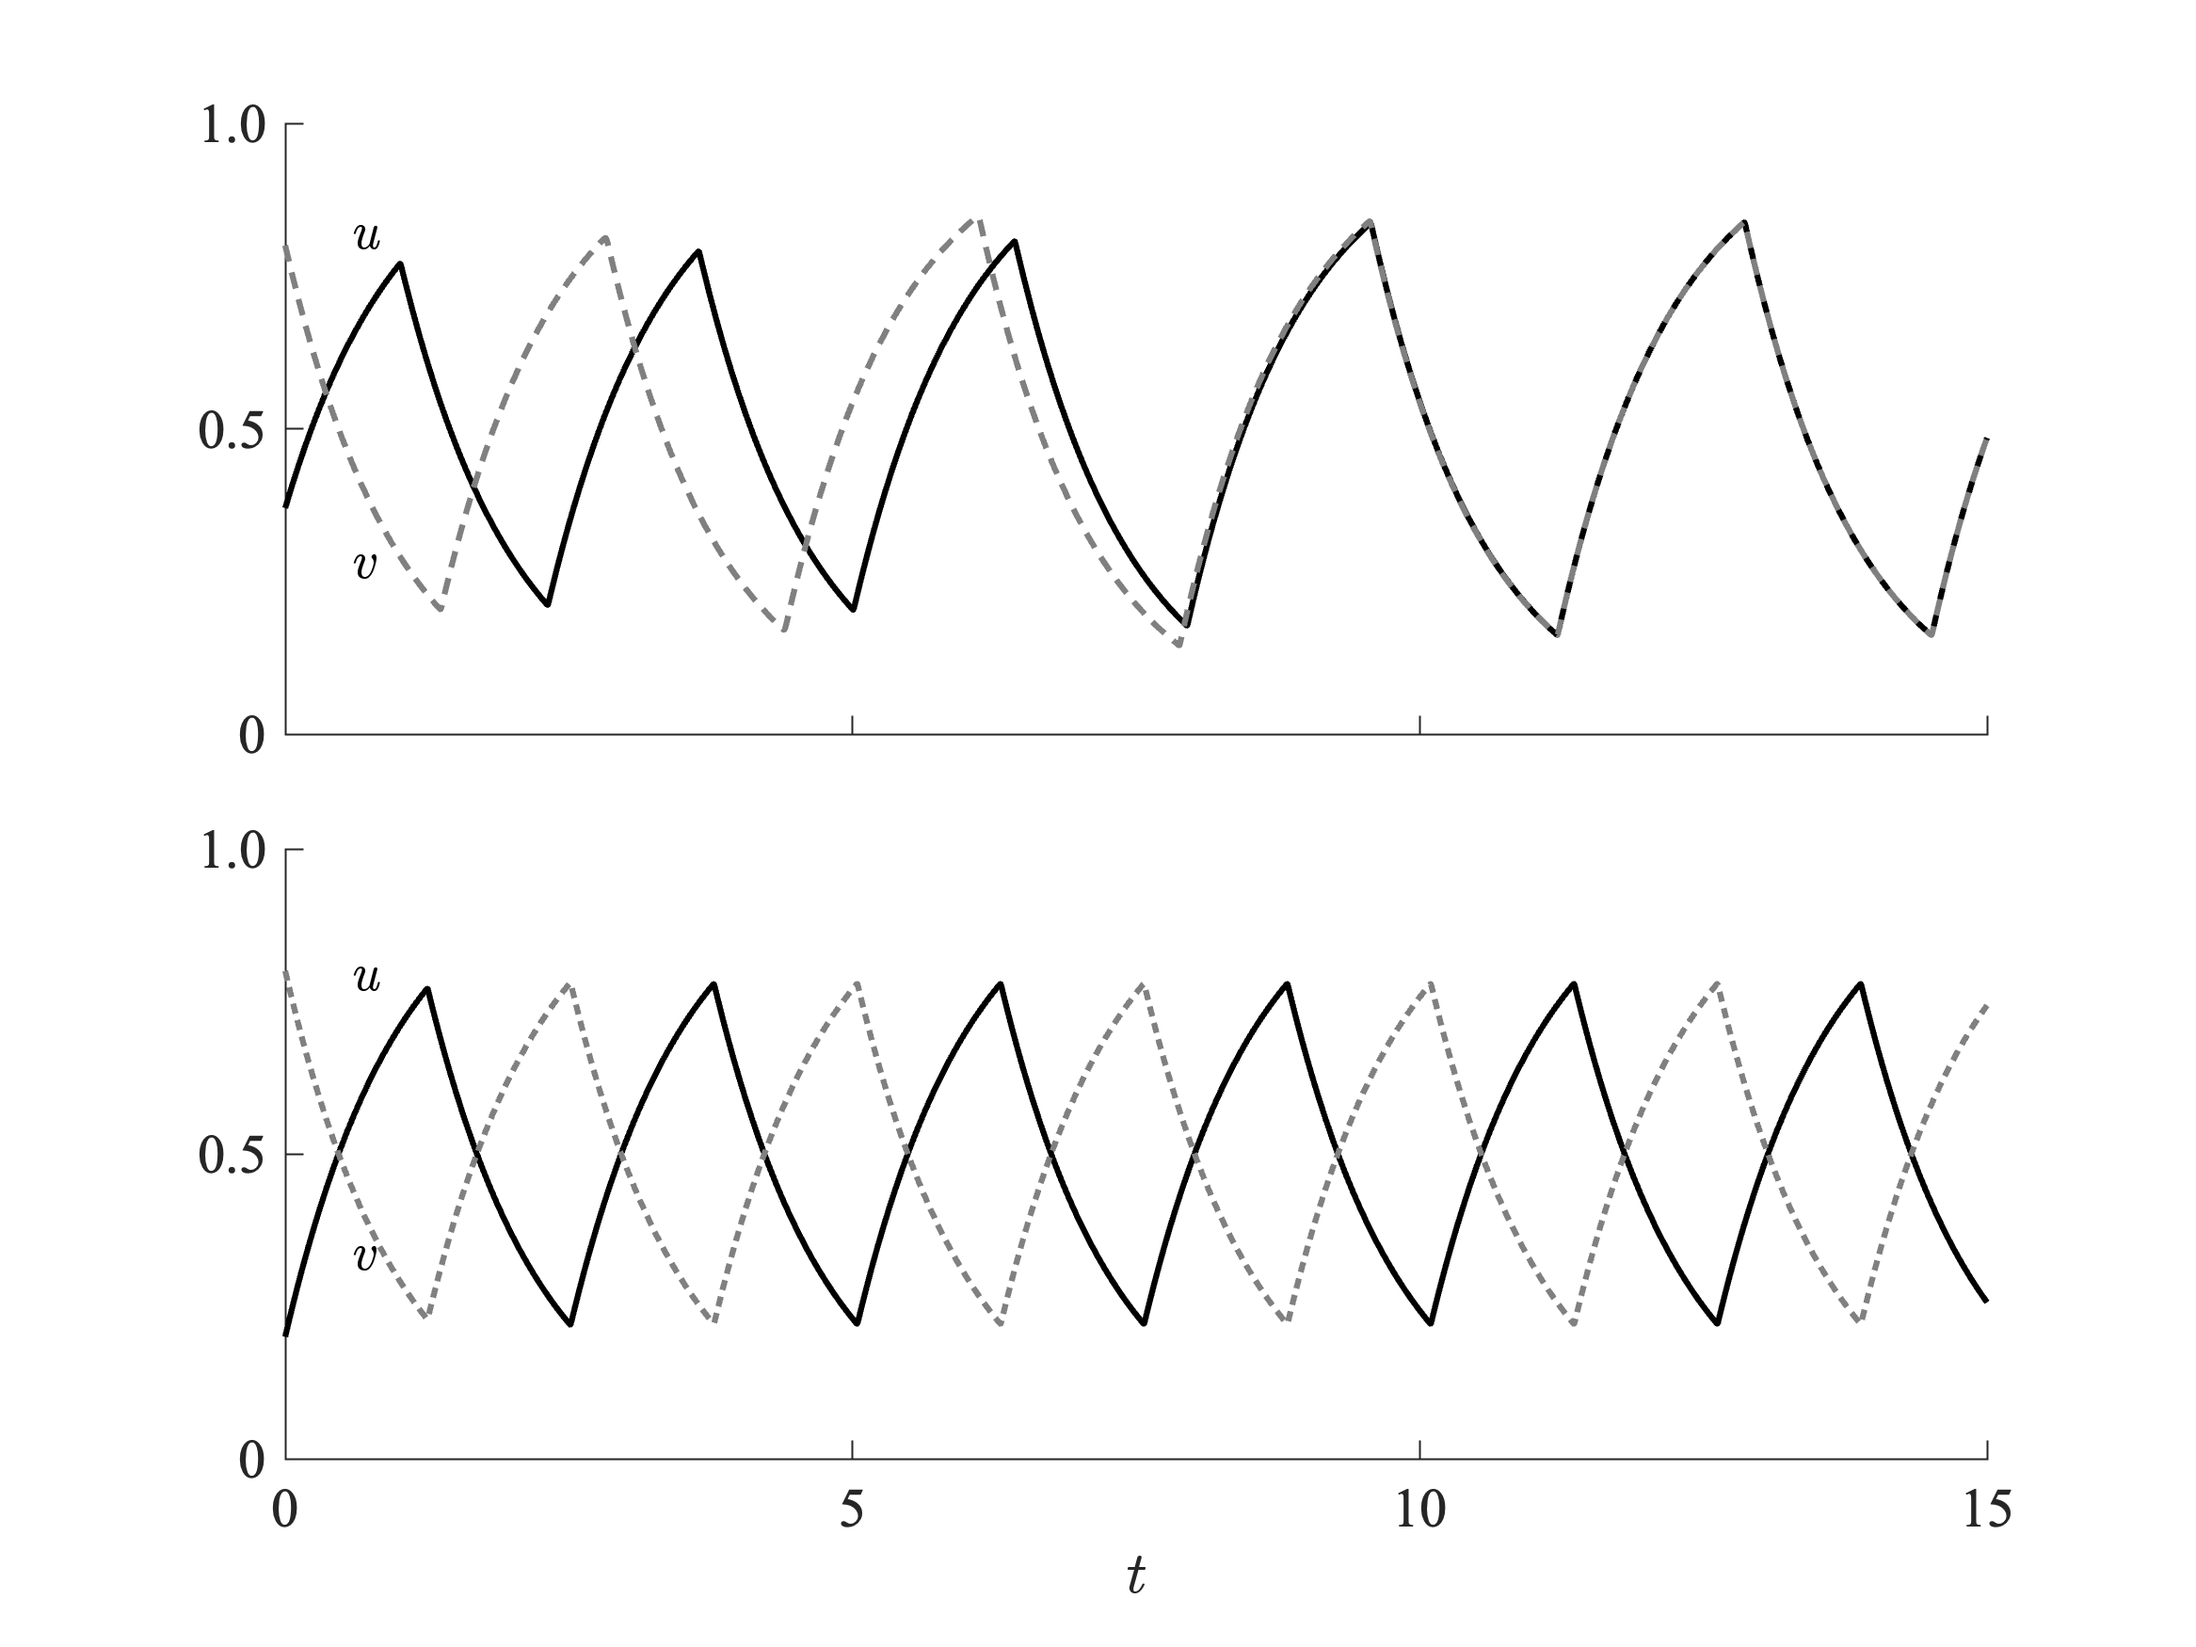
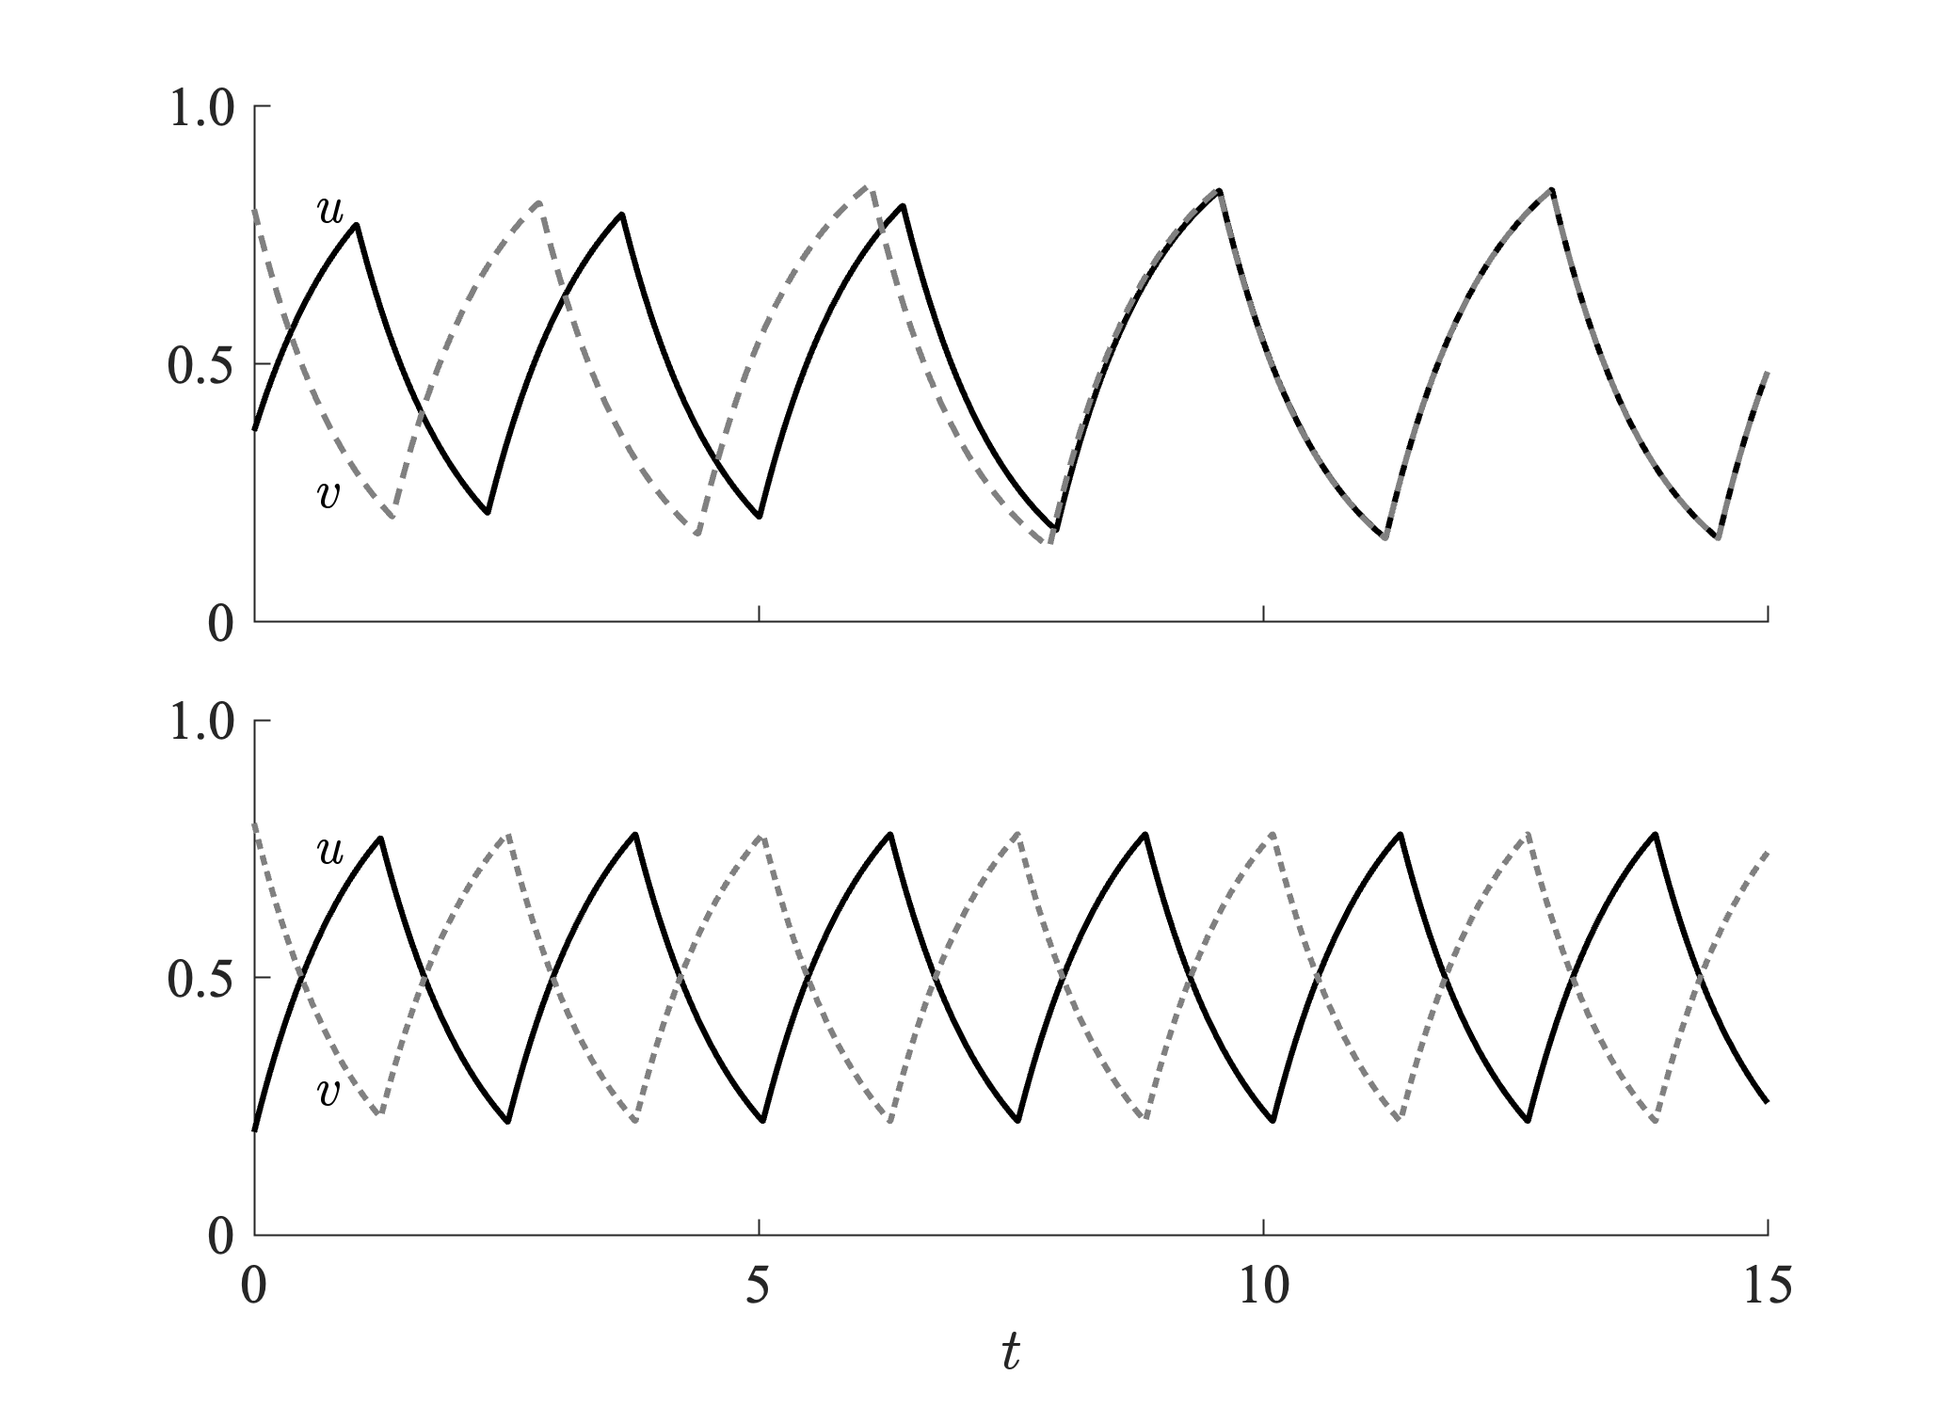
Finalise dde_sim

diff --git a/Code/delay_wilson_cowan.m b/Code/delay_wilson_cowan.m
@@ -218,6 +218,110 @@ annotation('textbox',[0.15 0.21 0.0446 0.0536],'String','$\mathit{v}$',...
 % Save figure
 print(gcf, '../Figures/Figure_3.png', '-dpng', '-r300');
 
+%% Figure 4 - DDE Simulations
+% Select Parameters
+p.alpha = 1; p.beta = 1;
+p.a = 10; p.b = -10;
+p.c = 10; p.d = 2;
+p.theta_u = -2; p.theta_v = -4;
+
+% Define DDE parameters
+p.tspan = [0 50];
+p.history = [0.6 0.7];
+p.options = ddeset('RelTol', 1e-5);
+
+p.tau1 = 0.5; p.tau2 = 1;
+p.delays = [p.tau1 p.tau2];
+[sol1, null] = ddeSim(p);
+
+p.tau1 = 3; p.tau2 = 1;
+p.delays = [p.tau1 p.tau2];
+sol2 = ddeSim(p);
+
+p.tau1 = 6; p.tau2 = 1;
+p.delays = [p.tau1 p.tau2];
+sol3 = ddeSim(p);
+
+p.tau1 = 10; p.tau2 = 1;
+p.delays = [p.tau1 p.tau2];
+sol4 = ddeSim(p);
+
+% Initialise figure 4
+figure(4); clf;
+tiledlayout(2,2,'TileSpacing','Compact','Padding','loose');
+
+% First subplot
+nexttile; hold on;
+
+% Plot nullclines
+plot(null.nullclines.u, null.v_range, '-', 'color', '#c74440', 'linewidth', 1.5)
+plot(null.u_range, null.nullclines.v, '-', 'color', '#2c70b3', 'linewidth', 1.5)
+
+% Plot solution
+plot(sol1.y(1,1), sol1.y(2,1), '.', 'color', '#378c47', 'markersize', 12)
+plot(sol1.y(1,:), sol1.y(2,:), 'color', '#378c47', 'linewidth', 1)
+
+% Format subplot
+ylabel("$\mathit{v}$", 'Interpreter', 'latex','rotation',0)
+set(gca,'FontSize', 14, 'FontName', 'Times')
+xlim([0 1]); ylim([0 1]);
+xticks(0:0.2:1); xticklabels({'0','0.2','0.4','0.6','0.8','1.0'});
+yticks(0:0.2:1); yticklabels({'0','0.2','0.4','0.6','0.8','1.0'});
+
+% Second subplot
+nexttile; hold on;
+
+% Plot nullclines
+plot(null.nullclines.u, null.v_range, '-', 'color', '#c74440', 'linewidth', 1.5)
+plot(null.u_range, null.nullclines.v, '-', 'color', '#2c70b3', 'linewidth', 1.5)
+
+% Plot solution
+plot(sol2.y(1,1), sol2.y(2,1), '.', 'color', '#378c47', 'markersize', 12)
+plot(sol2.y(1,:), sol2.y(2,:), 'color', '#378c47', 'linewidth', 1)
+
+% Format subplot
+set(gca,'FontSize', 14, 'FontName', 'Times')
+xlim([0 1]); ylim([0 1]);
+xticks(0:0.2:1); xticklabels({'0','0.2','0.4','0.6','0.8','1.0'});
+yticks(0:0.2:1); yticklabels({'0','0.2','0.4','0.6','0.8','1.0'});
+
+% Third subplot
+nexttile; hold on;
+
+% Plot nullclines
+plot(null.nullclines.u, null.v_range, '-', 'color', '#c74440', 'linewidth', 1.5)
+plot(null.u_range, null.nullclines.v, '-', 'color', '#2c70b3', 'linewidth', 1.5)
+
+% Plot solution
+plot(sol3.y(1,1), sol3.y(2,1), '.', 'color', '#378c47', 'markersize', 12)
+plot(sol3.y(1,:), sol3.y(2,:), 'color', '#378c47', 'linewidth', 1)
+
+% Format subplot
+xlabel("$\mathit{u}$", 'Interpreter', 'latex')
+ylabel("$\mathit{v}$", 'Interpreter', 'latex','rotation',0)
+set(gca,'FontSize', 14, 'FontName', 'Times')
+xlim([0 1]); ylim([0 1]);
+xticks(0:0.2:1); xticklabels({'0','0.2','0.4','0.6','0.8','1.0'});
+yticks(0:0.2:1); yticklabels({'0','0.2','0.4','0.6','0.8','1.0'});
+
+% Fourth subplot
+nexttile; hold on;
+
+% Plot nullclines
+plot(null.nullclines.u, null.v_range, '-', 'color', '#c74440', 'linewidth', 1.5)
+plot(null.u_range, null.nullclines.v, '-', 'color', '#2c70b3', 'linewidth', 1.5)
+
+% Plot solution
+plot(sol4.y(1,1), sol4.y(2,1), '.', 'color', '#378c47', 'markersize', 12)
+plot(sol4.y(1,:), sol4.y(2,:), 'color', '#378c47', 'linewidth', 1)
+
+% Format subplot
+xlabel("$\mathit{u}$", 'Interpreter', 'latex')
+set(gca,'FontSize', 14, 'FontName', 'Times')
+xlim([0 1]); ylim([0 1]);
+xticks(0:0.2:1); xticklabels({'0','0.2','0.4','0.6','0.8','1.0'});
+yticks(0:0.2:1); yticklabels({'0','0.2','0.4','0.6','0.8','1.0'});
+
 %% Figure 6 Replicate
 % Define model parameters
 p.alpha = 1; p.beta = 60;

diff --git a/Code/helper_functions/ddeSim.m b/Code/helper_functions/ddeSim.m
@@ -1,55 +1,14 @@
 %% DDE Simulation
-% Select Parameters
-p.alpha = 1; p.beta = 1;
-p.a = 10; p.b = -10;
-p.c = 10; p.d = 2;
-p.tau1 = 0.5; p.tau2 = 1;
-% p.tau1 = 3; p.tau2 = 1;
-% p.tau1 = 6; p.tau2 = 1;
-p.theta_u = -2; p.theta_v = -4;
-
-% Define DDE parameters
-p.tspan = [0 50];
-p.delays = [p.tau1 p.tau2];
-p.history = [0.6 0.7];
-p.options = ddeset('RelTol', 1e-5);
-
-% Calculate nullclines
-u_range = linspace(0, 1, 1000);
-v_range = linspace(0, 1, 1000);
-nullclines = getNullclines(u_range, v_range, p);
-
-% Solve DDE
-sol = dde23(@(t, y, Z) ddefun(t, y, Z, p), ...
-    p.delays,p.history,p.tspan,p.options);
-
-% Initialise figure 1
-figure(1);
-clf; hold on
-
-% Plot nullclines
-plot(nullclines.u, v_range, '-', 'color', '#c74440', 'linewidth', 1.5)
-plot(u_range, nullclines.v, '-', 'color', '#2c70b3', 'linewidth', 1.5)
-
-% Plot solution
-plot(sol.y(1,1), sol.y(2,1), '.', 'color', '#378c47', 'markersize', 12)
-for i = 1:length(sol.y)-1
-    plot(sol.y(1,i:i+1), sol.y(2,i:i+1), ...
-        'color', '#378c47', 'linewidth', 1); % u against v
-    % drawnow;
+function [sol, null] = ddeSim(p)    
+    % Calculate nullclines
+    null.u_range = linspace(0, 1, 1000);
+    null.v_range = linspace(0, 1, 1000);
+    null.nullclines = getNullclines(null.u_range, null.v_range, p);
+    
+    % Solve DDE
+    sol = dde23(@(t, y, Z) ddefun(t, y, Z, p), ...
+        p.delays,p.history,p.tspan,p.options);
 end
-clear i
-
-% Format axes
-xlabel("$\mathit{u}$", 'Interpreter', 'latex')
-ylabel("$\mathit{v}$", 'Interpreter', 'latex','rotation',0)
-set(gca,'FontSize', 14, 'FontName', 'Times')
-xlim([0 1]);
-ylim([0 1]);
-xticks(0:0.2:1)
-xticklabels({'0','0.2','0.4','0.6','0.8','1.0'})
-yticks(0:0.2:1)
-yticklabels({'0','0.2','0.4','0.6','0.8','1.0'})
 
 %% --------------------------------------------------------------------- %%
 % ------------------------------- f(x,p) -------------------------------- %

diff --git a/Code/helper_functions/ddeBiftoolSection.m b/Code/helper_functions/ddeBiftoolSection.m
@@ -42,8 +42,8 @@ method.stability.minimal_real_part = -2;
 
 % Correct steady state point
 [stst, success] = p_correc(funcs, stst, [], [], method.point);
-if success == 1
-    disp('Initial Steady State Correction Successful')
+if success ~= 1
+    disp('Initial Steady State Correction Unsuccessful')
 end
 
 % Compute point stability
@@ -67,8 +67,8 @@ stst.parameter(ind_theta_u) = stst.parameter(ind_theta_u) + 0.005;
 
 % Correct new steady state point
 [stst, success] = p_correc(funcs, stst, [], [], method.point);
-if success == 1
-    disp('Perturbed Steady State Correction Successful')
+if success ~= 1
+    disp('Perturbed Steady State Correction Unsuccessful')
 end
 
 % Use new steady state point as second steady state branch point
@@ -98,8 +98,8 @@ method.stability.minimal_real_part = -1;
 
 % Correct hopf point
 [hopf, success] = p_correc(funcs, hopf, ind_theta_u, [], method.point);
-if success == 1
-    disp('Initial Hopf Point Correction Successful')
+if success ~= 1
+    disp('Initial Hopf Point Correction unsuccessful')
 end
 first_hopf = hopf; % store hopf point for later use
 
@@ -112,8 +112,8 @@ degree = 3;
 % Correct periodic solution
 method = df_mthod(funcs, 'psol');
 [psol, success] = p_correc(funcs, psol, ind_theta_u, stepcond, method.point);
-if success == 1
-    disp('Periodic Solution Correction Successful')
+if success ~= 1
+    disp('Periodic Solution Correction Unsuccessful')
 end
 
 % Get an empty branch with theta_u as a free parameter
